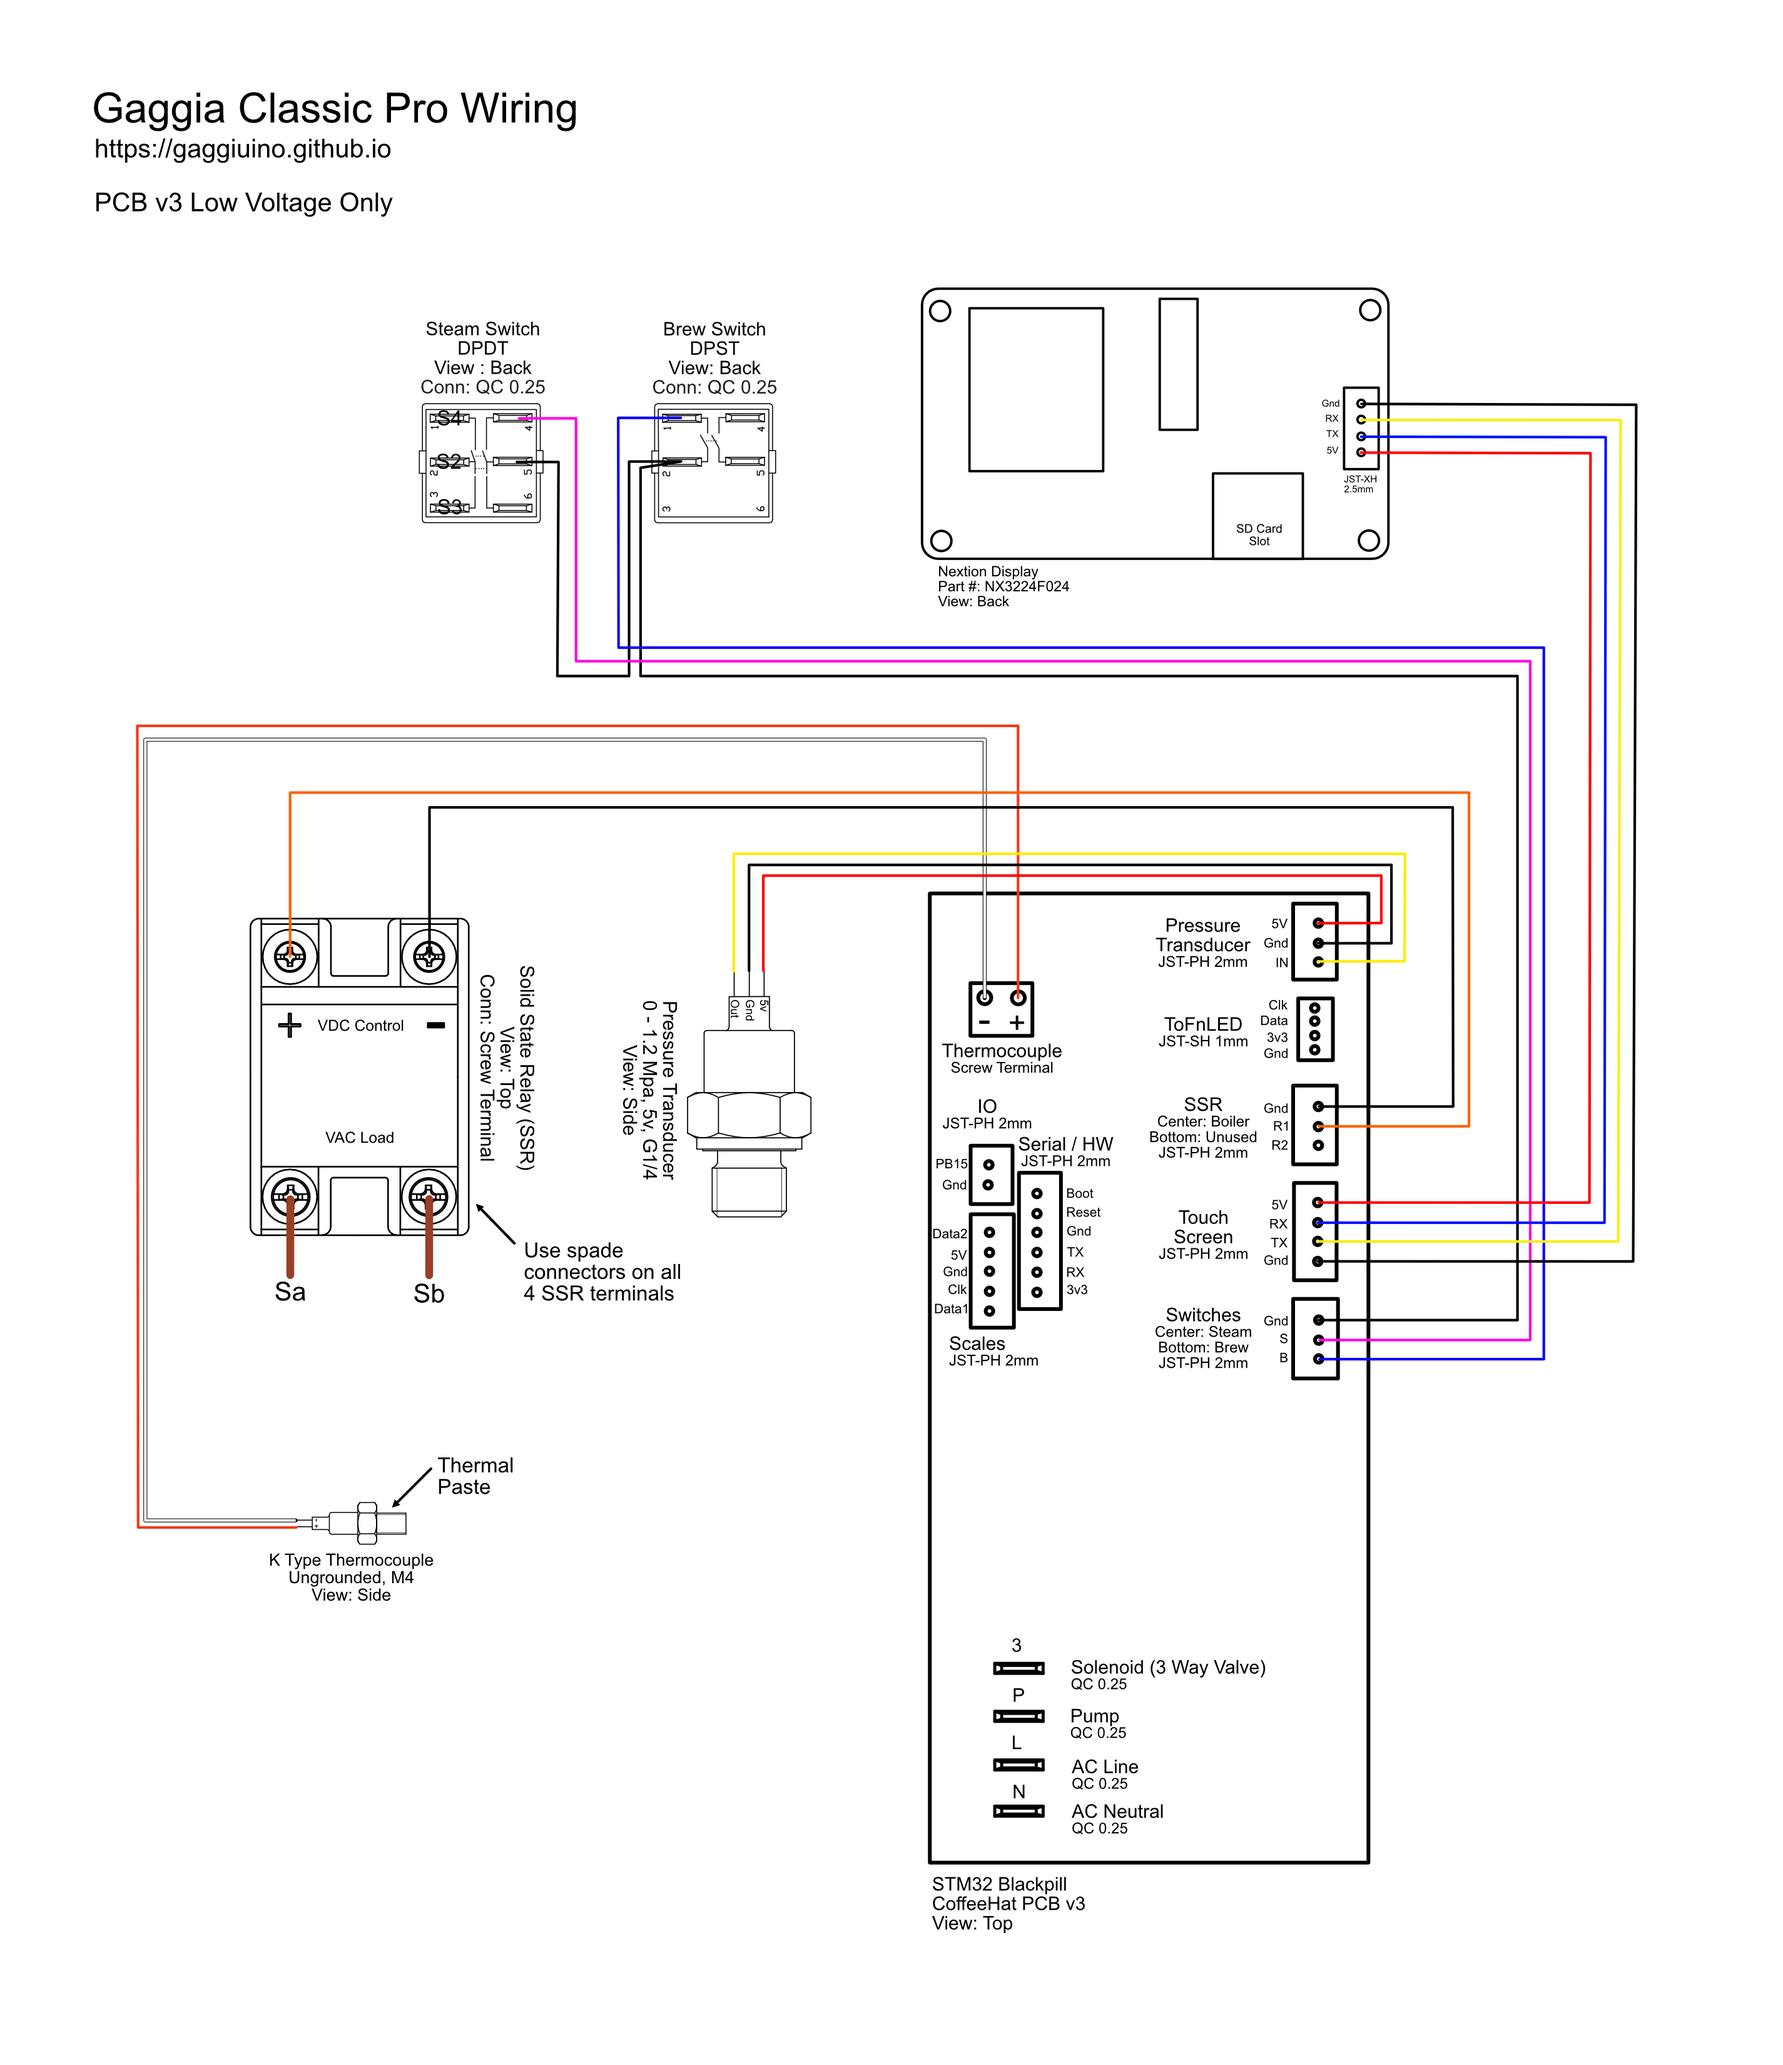
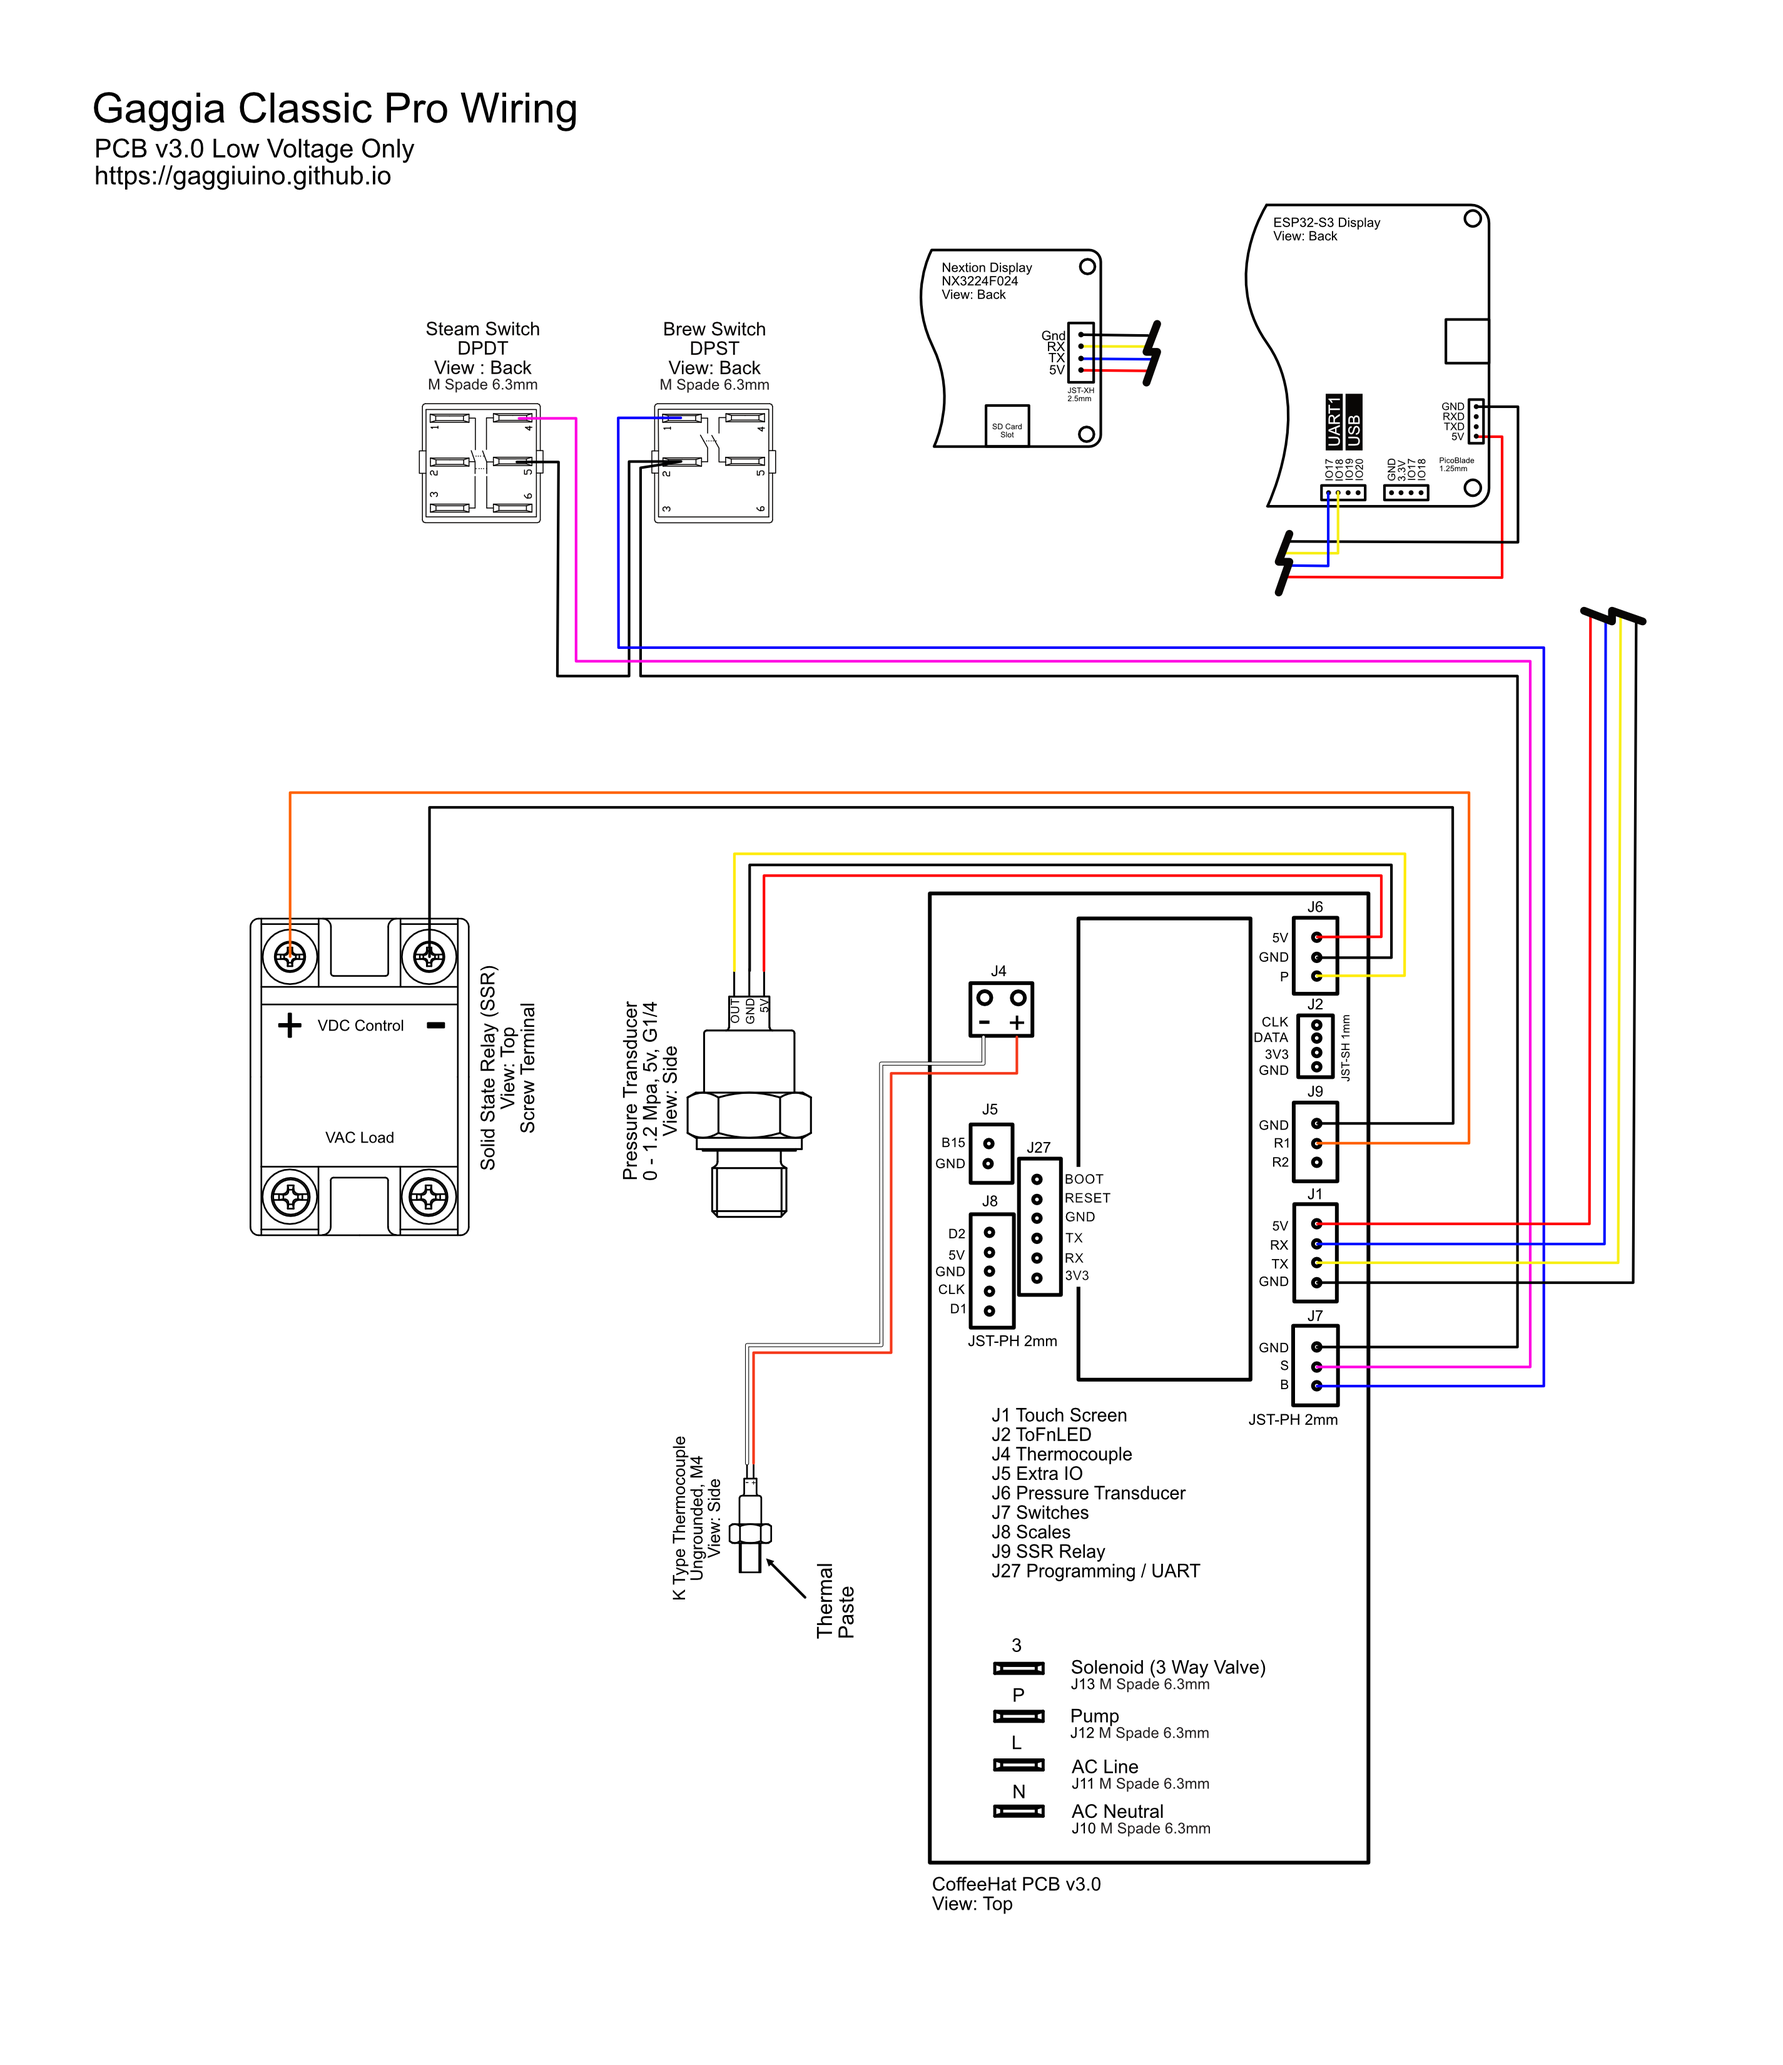
update pcb instructions with new schematics and example images for Gen 3/PCBv4

diff --git a/docs/guides-stm32/pcb-guide.md b/docs/guides-stm32/pcb-guide.md
@@ -5,28 +5,58 @@
 
 # Pre-install test
 
-See [MCU Flashing](guides-stm32/mcu-flashing.md) for instructions on flashing the Blackpill and display
+See [MCU Flashing](guides-stm32/mcu-flashing.md) for instructions on flashing the STM32 / BlackPill and UI
 
 <!-- tabs:start -->
-<!-- tab:GC -->
-  <!-- tabs:start -->
-  <!-- tab:PCBv3.1 -->
-  <img height="400" alt="image" src="schematics/stm32-lv/GC_wiring_PCBv3_1_LV.png">
-  <!-- tab:PCBv3 -->
-  <img height="400" alt="image" src="schematics/stm32-lv/GC_wiring_PCBv3_LV.png">
-  <!-- tabs:end -->
 <!-- tab:GCP -->
   <!-- tabs:start -->
-  <!-- tab:PCBv3.1 -->
+  <!-- tab:PCBv3.1/PCBv4 -->
   <img height="400" alt="image" src="schematics/stm32-lv/GCP_wiring_PCBv3_1_LV.png">
   <!-- tab:PCBv3 -->
   <img height="400" alt="image" src="schematics/stm32-lv/GCP_wiring_PCBv3_LV.png">
   <!-- tabs:end -->
+<!-- tab:GC -->
+  <!-- tabs:start -->
+  <!-- tab:PCBv3.1/PCBv4 -->
+  <img width="400" alt="image" src="schematics/stm32-lv/GC_wiring_PCBv3_1_LV.png">
+  <!-- tab:PCBv3 -->
+  <img height="400" alt="image" src="schematics/stm32-lv/GC_wiring_PCBv3_LV.png">
+  <!-- tabs:end -->
 <!-- tabs:end -->
 
+<!-- tabs:start -->
+<!-- tab:Gen 3 -->
 > [!Warning|style:callout|label:Risk of Shorts]
-> The PCB is shown out of its case for clarity. Make sure all cases are installed and components are on a non-conductive surface **before power is supplied**!
+> Make sure electronics are in their housings and/or secure on a non-conductive surface **before power is supplied**!
 
+<!-- tabs:start -->
+<!-- tab:PCBv3.1/PCBv4 -->
+Connect the system components - thermocouple, pressure transducer, screen, SSR, ToFnLED (if available) - to the PCB and power on the system through the USB-C port on the PCB.  
+
+<img width="500" alt="image" src="https://github.com/user-attachments/assets/5ea67541-0cf4-4064-9f87-19ad900bef8b">
+
+<!-- tab:PCBv3 -->
+Connect the system components - BlackPill, thermocouple, pressure transducer, screen, SSR, ToFnLED (if available) - to the PCB and power on the system through the USB-C port on the BlackPill.  
+
+<img width="500" alt="image" src="https://github.com/user-attachments/assets/8f903e75-a563-4882-879c-9ef112254019">
+
+<!-- tabs:end -->
+
+If all is successful you should see:
+- the "Initialization in progress" message disappear after a few seconds
+- a "Filling boiler" message a few seconds after boot and a red LED on the underside of the board lighting up at the same time
+- a temperature reading on the screen that changes when heat is applied to the thermocouple
+- the SSR light turn on if the temperature is below the setpoint (it will flash if temp is close to setpoint)
+- a pressure value of 0.0 bar with no deviation
+- the brew temp as the target
+
+> [!Note|style:callout|label:Notes]
+> * Depending on revision, the Blue and Yellow screen wires may be reversed from the schematics. Do not disassemble pre-made cables! Verify connection points, not just color.
+> * If built, HW scales can be included in the bench test and even calibrated at this point
+
+<!-- tab:Gen 2 -->
+> [!Warning|style:callout|label:Risk of Shorts]
+> The PCB and screen shown out of their housings for clarity. Make sure electronics are in their housings and/or secure on a non-conductive surface **before power is supplied**!
 <!-- tabs:start -->
 <!-- tab:PCBv3.1 -->
 Connect the system components - thermocouple, pressure transducer, screen, SSR, ToFnLED (if defined) - to the PCB and power on the system through the USB-C port on the PCB.  
@@ -42,12 +72,12 @@ If all is successful you should:
 - *not* see the steam temp as the target
 
 <!-- tab:PCBv3 -->
-Connect the system components - Blackpill, thermocouple, pressure transducer, screen, SSR, ToFnLED (if defined) - to the PCB and power on the system through the USB-C port on the blackpill.  
+Connect the system components - BlackPill, thermocouple, pressure transducer, screen, SSR, ToFnLED (if defined) - to the PCB and power on the system through the USB-C port on the BlackPill.  
 
 <img width="500" alt="image" src="https://github.com/GAGGIUINO/gaggiuino.github.io/assets/117388662/20517917-3c40-4902-8e60-052e627a0c35">
 
 If all is successful you should:
-- see a build number during boot (good Blackpill-Nextion communication)
+- see a build number during boot (good BlackPill-Nextion communication)
 - see a "filling boiler" message a few seconds after boot
 - see a temperature reading on the screen that changes when heat is applied to the thermocouple
 - see the SSR light turn on if the temperature is below the setpoint (it will flash if temp is close to setpoint)
@@ -59,6 +89,8 @@ If all is successful you should:
 > [!Note|style:callout|label:Notes]
 > * The system will not initialize if the ToFnLED board was enabled in the software but isn't plugged in
 > * If built, HW scales can be included in the bench test and even calibrated at this point
+
+<!-- tabs:end -->
 
 **Continue the installation by referencing the 3PLN machine-specific schematics and/or instructions that apply to your desired build path.**  
 Custom wiring is recommended for certain machines (see the [compatibility table](README.md#Compatibility))
